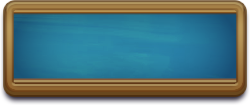
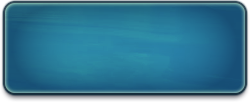
update: item menu assets

diff --git a/src/js/scene/substage/menu.js b/src/js/scene/substage/menu.js
@@ -21,7 +21,7 @@ SceneSubStageMenu.prototype.init = function(){
 	this.use_button = new UIParts(
 		self,
 		self.root().width - 200 + 250/3,
-		self.root().height - 150 + 105/3,
+		self.root().height - 180 + 105/3,
 		250*2/3,
 		105*2/3,
 		function() {
@@ -178,8 +178,8 @@ SceneSubStageMenu.prototype._showMessageWindow = function(){
 	var message_window = this.core.image_loader.getImage('ui-common-bg-toolpu-blk');
 
 	ctx.drawImage(message_window,
-		150,
-		this.root().height - 80,
+		130,
+		this.root().height - 100,
 		message_window.width*2/3,
 		message_window.height*2/3
 	);
